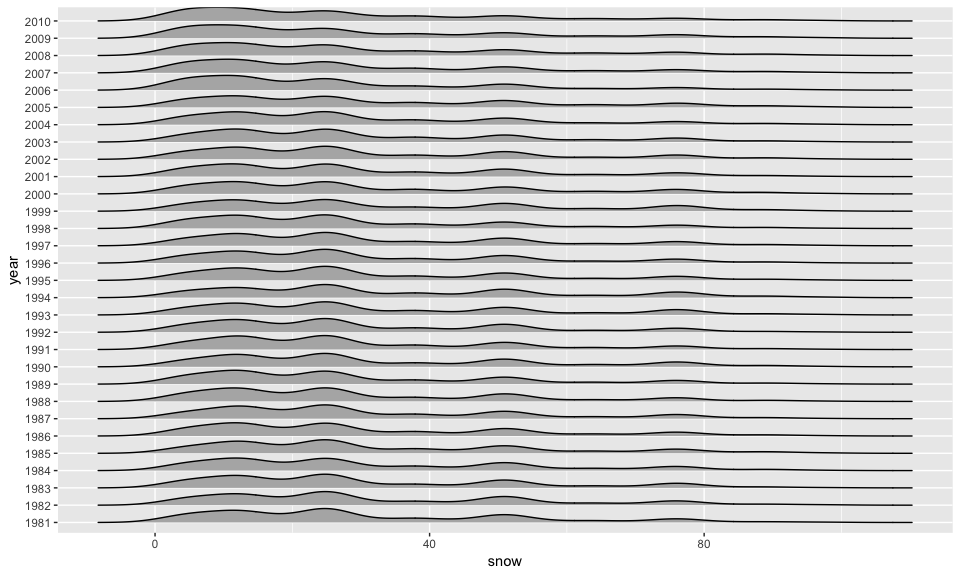
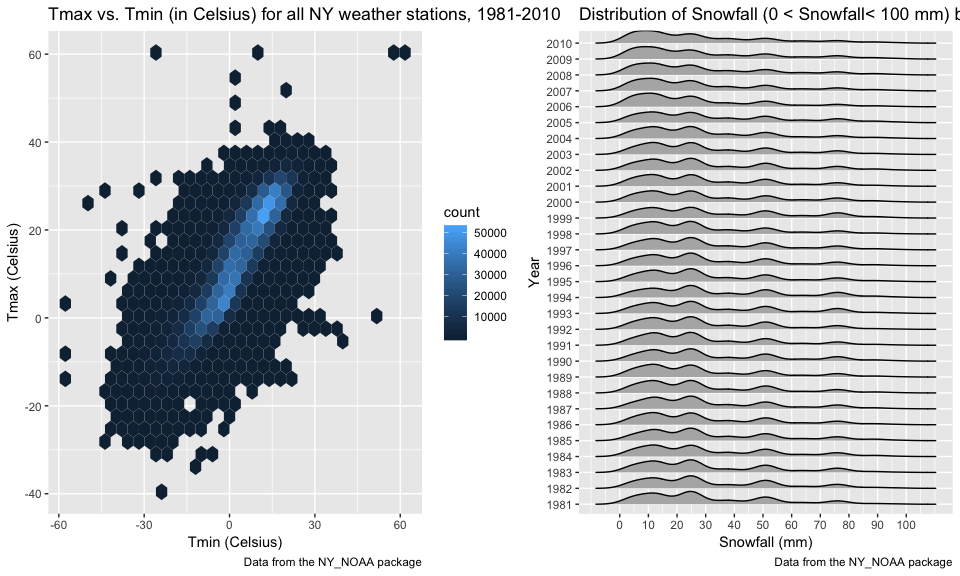
work on problem 3 - changed the two-panel plot to a spaghetti plot to better show changes over time.

diff --git a/p8105_hw3_dm3175.md b/p8105_hw3_dm3175.md
@@ -326,6 +326,7 @@ clean_NOAA_data = NOAA_data %>%
 The following steps were completed to clean the dataset:
 
 -   Separated the date column into separate variables for `year`, `month` and `day`.
+
 -   Converted the month number to a month name.
 
 -   Converted the weather measurement variables into "double" type variables.
@@ -378,18 +379,27 @@ The following two-panel plot displays: 1) the Tmax vs. Tmin for the full dataset
 
 ``` r
 temp_hex_p = clean_NOAA_data %>%
-  ggplot(aes(x = tmax_celsius, y = tmin_celsius)) + 
+  ggplot(aes(x = tmin_celsius, y = tmax_celsius)) + 
   geom_hex() + 
   labs(title = "Tmax vs. Tmin (in Celsius) for all NY weather stations, 1981-2010",
-       x = "Tmax (Celsius)",
-       y = "Tmin (Celsius)",
+       x = "Tmin (Celsius)",
+       y = "Tmax (Celsius)",
       caption = "Data from the NY_NOAA package")
 
-clean_NOAA_data %>% 
+snowfall_density_p = clean_NOAA_data %>% 
   filter(snow > 0 & snow < 100) %>% 
   ggplot(aes(x = snow, y = year)) + 
-  geom_density_ridges(scale = .85) 
+  geom_density_ridges(scale = .85) +
+  scale_x_continuous(breaks = c(0, 10, 20, 30, 40, 50, 60, 70, 80, 90, 100)) +
+  labs(title = "Distribution of Snowfall (0 < Snowfall< 100 mm) by Year",
+       x = "Snowfall (mm)",
+       y = "Year",
+      caption = "Data from the NY_NOAA package")
+
+temp_hex_p + snowfall_density_p
 ```
+
+    ## Warning: Removed 1136276 rows containing non-finite values (stat_binhex).
 
     ## Picking joint bandwidth of 3.76
 
